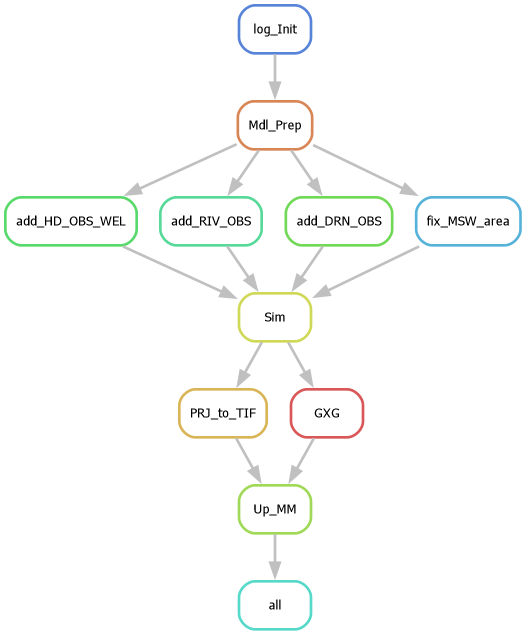
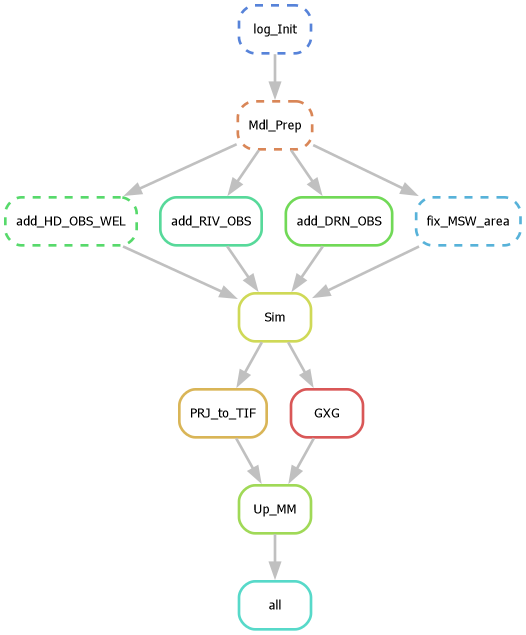
WS_Mdl RunMng can use args in CL; obs cleanup; headers fix

diff --git a/code/WS_Mdl/__main__.py b/code/WS_Mdl/__main__.py
@@ -144,7 +144,29 @@ def _discover_exports() -> dict[str, list[str]]:
 def _print_usage() -> None:
     """Print CLI usage help."""
     print('Usage: WS_Mdl <function_name> [arguments ...]')
+    print('       WS_Mdl <function_name> key=value [key=value ...]')
     print('       WS_Mdl --list')
+
+
+def _parse_cli_value(value: str):
+    """Parse a CLI token value into a basic Python type when safe."""
+    low = value.lower()
+    low = True if low == 'true' else False if low == 'false' else None if low == 'none' else low
+
+    try:
+        return int(value)
+    except ValueError:
+        pass
+
+    try:
+        return float(value)
+    except ValueError:
+        pass
+
+    if (value.startswith('"') and value.endswith('"')) or (value.startswith("'") and value.endswith("'")):
+        return value[1:-1]
+
+    return value
 
 
 def main(argv: list[str] | None = None) -> int:
@@ -180,10 +202,20 @@ def main(argv: list[str] | None = None) -> int:
             print(f' - {name}')
         return 0
 
-    # Treat first argument as function name, remaining args as raw positional
-    # string arguments passed directly to the target callable.
+    # Treat first argument as function name and parse remaining tokens into
+    # positional args and key=value kwargs.
     function_name = argv[0]
-    args = argv[1:]
+    args: list[object] = []
+    kwargs: dict[str, object] = {}
+    for token in argv[1:]:
+        if '=' in token:
+            key, value = token.split('=', 1)
+            if not key:
+                print(f"Error: Invalid keyword argument '{token}'.")
+                return 1
+            kwargs[key] = _parse_cli_value(value)
+        else:
+            args.append(token)
 
     # Find candidate module(s) exporting this name.
     candidate_modules = exports.get(function_name, [])
@@ -214,8 +246,7 @@ def main(argv: list[str] | None = None) -> int:
             return 1
 
         try:
-            # Arguments are passed as strings; conversion is handled by target func.
-            result = func(*args)
+            result = func(*args, **kwargs)
         except TypeError as exc:
             # Usually indicates wrong number/type of positional arguments.
             print(f"Error calling '{function_name}' from {module_name}: {exc}")

diff --git a/code/WS_Mdl/imod/mf6/obs.py b/code/WS_Mdl/imod/mf6/obs.py
@@ -105,6 +105,30 @@ def add_within_polygon(
 
     M = Mdl_N(MdlN)
 
+    pkg_cols = [c[0] for c in d_Pkg_Cols[Pkg.upper()]]
+
+    def _read_pkg_table(
+        path: Path, skiprows: int = 0, skipfooter: int = 0
+    ) -> pd.DataFrame:  # 666 This can be improved: move it to a new file, so it can be re-used for all MF6 In loading.
+        DF = pd.read_csv(
+            path,
+            sep=r'\s+',
+            header=None,
+            skiprows=skiprows,
+            skipfooter=skipfooter,
+            engine='python',
+        )
+
+        n_file = DF.shape[1]
+        n_base = len(pkg_cols)
+
+        if n_file < n_base:
+            raise ValueError(f'{path.name}: expected at least {n_base} cols, found {n_file}')
+
+        extra = [f'aux{i}' for i in range(1, n_file - n_base + 1)]
+        DF.columns = pkg_cols + extra
+        return DF
+
     # Load Shp
     if Pa_Shp is not None:
         GDF_Shp = gpd.read_file(Pa_Shp)
@@ -120,15 +144,7 @@ def add_within_polygon(
         else {
             f.parents[1].name + '_' + f.parent.name: {
                 'path': f,
-                'DF': pd.read_csv(
-                    f,
-                    sep=r'\s+',
-                    names=[col[0] for col in d_Pkg_Cols[Pkg.upper()]],
-                    usecols=range(len(d_Pkg_Cols[Pkg.upper()])),
-                    header=None,
-                    skipfooter=12,  # Footer contains dimensions
-                    engine='python',
-                ),
+                'DF': _read_pkg_table(f, skipfooter=12),  # Footer contains dimensions
             }
             for f in M.Pa.Sim_In.rglob(f'{Pkg.lower()}*.arr')
             if not f.open().readline().startswith('# DIMENSIONS')  # Skip empty files (only have dimensions)
@@ -141,12 +157,10 @@ def add_within_polygon(
         d = {
             f.parent.name: {
                 'path': f,
-                'DF': pd.read_csv(f, sep=r'\s+', skiprows=1, names=[col[0] for col in d_Pkg_Cols[Pkg.upper()]][:-1]),
+                'DF': _read_pkg_table(f, skiprows=1),
             }
             for f in M.Pa.Sim_In.rglob(f'{Pkg.lower()}*0.dat')
         }
-    return d
-    print(d.keys())
 
     if not d:
         raise FileNotFoundError(f'🔴 - No {Pkg} files found  in {M.Pa.Sim_In}')

diff --git a/code/WS_Mdl/imod/mf6/headers.py b/code/WS_Mdl/imod/mf6/headers.py
@@ -1,5 +1,5 @@
 d_Pkg_Cols = {
-    'DRN': [('k', '<i4'), ('i', '<i4'), ('j', '<i4'), ('elev', '<f8'), ('cond', '<f8'), ('aux1', '<i4')],
+    'DRN': [('k', '<i4'), ('i', '<i4'), ('j', '<i4'), ('elev', '<f8'), ('cond', '<f8')],
     'RIV': [('k', '<i4'), ('i', '<i4'), ('j', '<i4'), ('stage', '<f8'), ('cond', '<f8'), ('rbot', '<f8')],
     'GHB': [('k', '<i4'), ('i', '<i4'), ('j', '<i4'), ('bhead', '<f8'), ('cond', '<f8')],
     'WEL': [('k', '<i4'), ('i', '<i4'), ('j', '<i4'), ('q', '<f8')],

diff --git a/code/WS_Mdl/io/sim.py b/code/WS_Mdl/io/sim.py
@@ -13,6 +13,8 @@ from WS_Mdl.core.mdl import Mdl_N
 from WS_Mdl.core.path import Pa_log_Cfg, Pa_log_Out, Pa_WS
 from WS_Mdl.core.style import Sep, bold, dim, sprint, style_reset, warn
 
+__all__ = ['RunMng']
+
 
 def S_from_B(MdlN: str, iMOD5=False):
     """Copies files that contain Sim options from the B Sim, renames them for the S Sim, and opens them in the default file editor. Assumes default WS_Mdl folder structure (as described in READ_ME.MD)."""